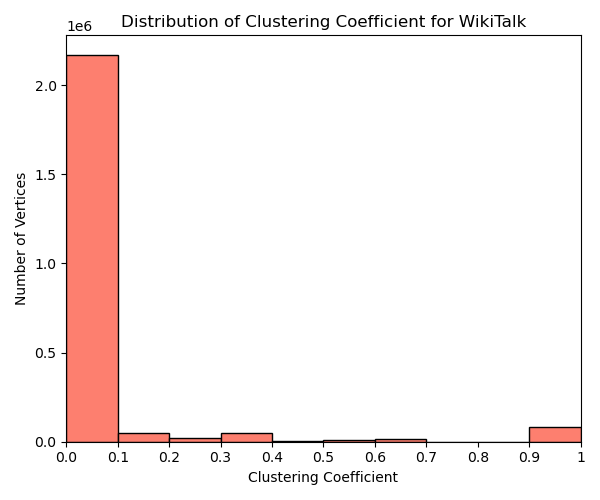
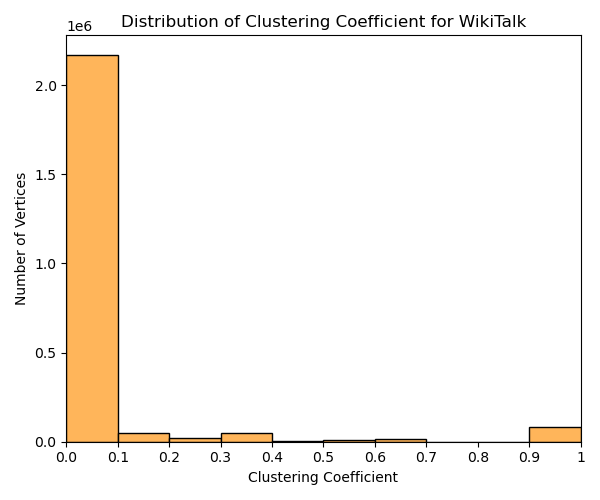
updated plots with correct colors

Changed region(s): [[0.09, 0.09, 0.45, 0.9], [0.87, 0.84, 0.99, 0.9], [0.63, 0.87, 0.69, 0.9]]

diff --git a/experimentations/plots/Extra/CCdistribution.py b/experimentations/plots/Extra/CCdistribution.py
@@ -22,18 +22,26 @@ graph_data = {
 }
 
 # Plotting each graph's data
+i = 0
 for key, (x_values, y_values) in graph_data.items():
+    i += 1
+    if i in [1, 2, 3]:
+        color = '#fd7f6f'
+    elif i in [4, 5, 6]:
+        color = '#ffb55a'
+    else:
+        color = '#7eb0d5'
+
     bar_positions = range(len(x_values))
     plt.figure(figsize=(6, 5))
-    plt.bar(bar_positions, y_values, color='#fd7f6f', width=1.0, align='edge', edgecolor='black')
+    plt.bar(bar_positions, y_values, color=color, width=1.0, align='edge', edgecolor='black')
     plt.xlabel('Clustering Coefficient')
     plt.ylabel('Number of Vertices')
     plt.title(f'Distribution of Clustering Coefficient for {key}')
     plt.xticks(bar_positions, x_values)
     plt.xlim(0, 10)
-    #make y log
-    plt.yscale('log')
+    #plt.yscale('log')
     plt.tight_layout()
     script_dir = os.path.dirname(os.path.abspath(__file__))
-    plt.savefig(os.path.join(script_dir, f'CCdistributionLOG-{key}.png'))
+    plt.savefig(os.path.join(script_dir, f'CCdistribution-{key}.png'))
     plt.show()
